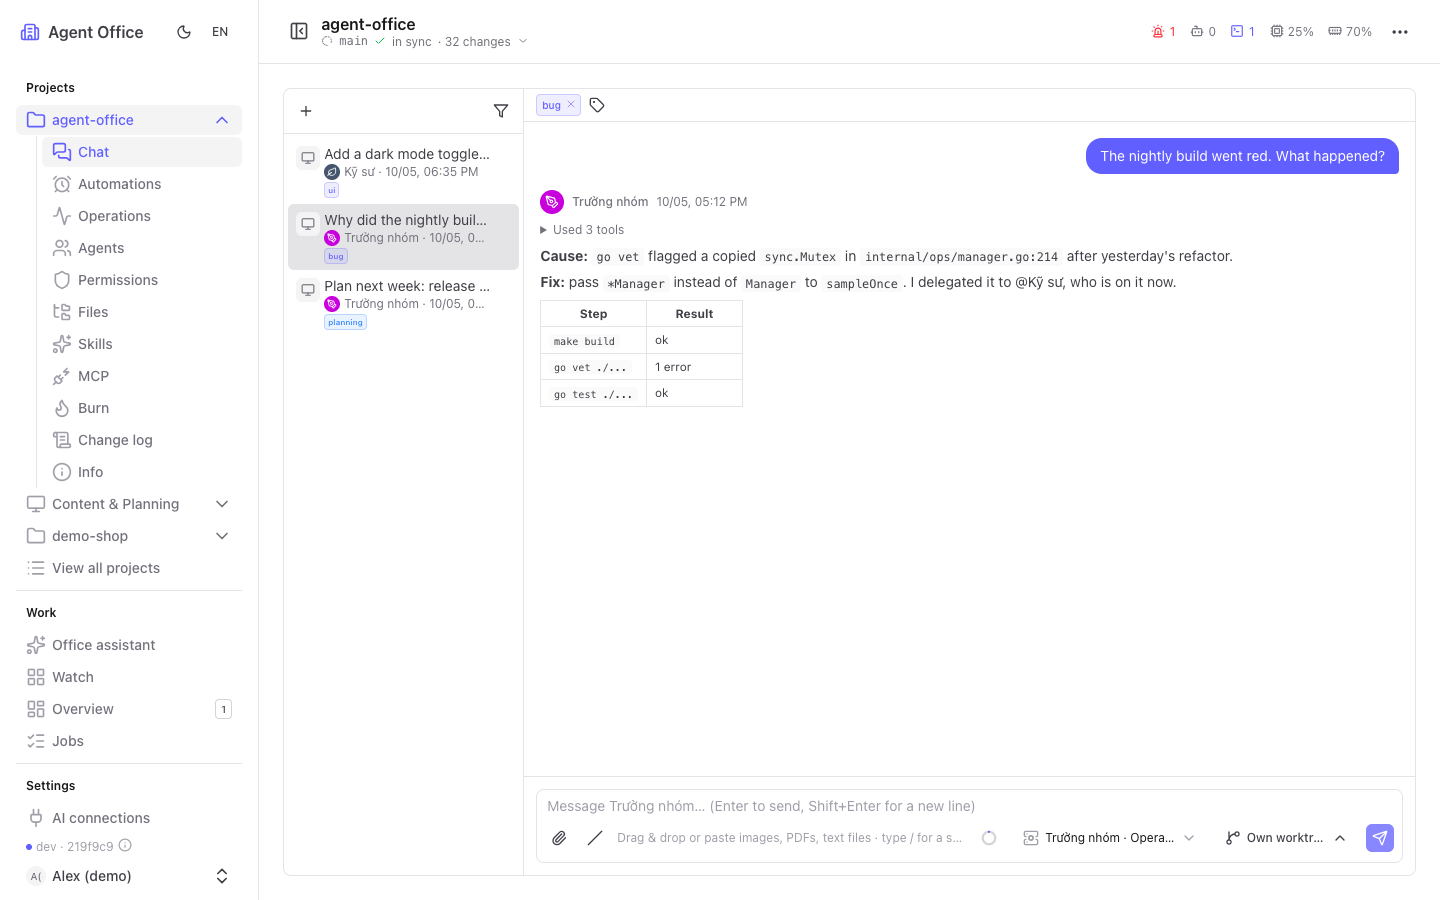
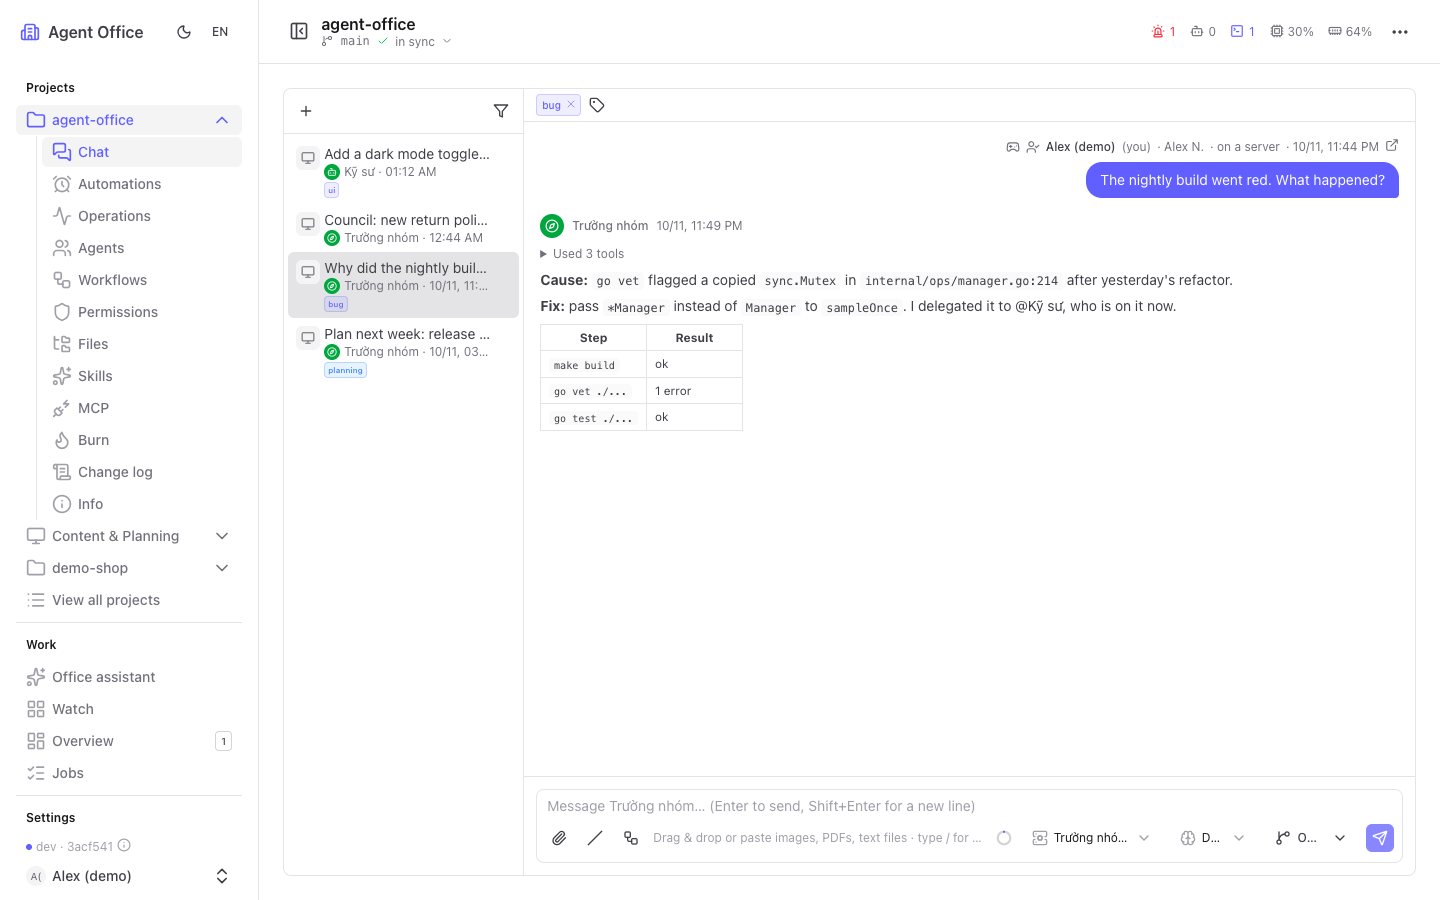
docs: hướng dẫn bot (DM, dòng người gửi) và gắn Discord/Telegram; CI GitHub Actions
- Guide vi/en: bot nhận DM, dòng người gửi trên tin, gắn Discord/Telegram ID ở Tài khoản; chụp lại 05-chat-answer, 28-users, 36-mobile-chat.
- capture.mjs: tài khoản demo gắn Discord, câu hỏi build gửi từ Discord.
- ChatPanel: "trên server" hiện cả khi private=false (bị omitempty bỏ).
- .github/workflows/test.yml: go (gofmt, vet, test) + dashboard (i18n, typecheck, test:unit).

diff --git a/docs/guide/vi.html b/docs/guide/vi.html
@@ -332,7 +332,7 @@ make ui-install &amp;&amp; make ui-build  # → dashboard/.output
     <li><b>Chép link</b> tới bất kỳ tin nhắn nào. Dán link chat vào chat khác thì agent đọc được.</li>
     <li>Agent tìm được chat cũ (<code>search_history</code>) khi bạn nói "như lần trước".</li>
   </ul>
-  <figure><img src="images/vi/05-chat-answer.png" alt="Câu trả lời trong chat" loading="lazy"><figcaption>Trưởng nhóm điều tra build lỗi, đọc log tiến trình và giao việc sửa.</figcaption></figure>
+  <figure><img src="images/vi/05-chat-answer.png" alt="Câu trả lời trong chat" loading="lazy"><figcaption>Câu hỏi gửi từ Discord (dòng người gửi phía trên); trưởng nhóm điều tra build lỗi, đọc log tiến trình và giao việc sửa.</figcaption></figure>
   <div class="row">
     <figure><img src="images/vi/34-dark-chat.png" alt="Giao diện tối" loading="lazy"><figcaption>Giao diện tối (Tài khoản → Giao diện).</figcaption></figure>
     <figure class="phone"><img src="images/vi/36-mobile-chat.png" alt="Trên điện thoại" loading="lazy"><figcaption>Trên điện thoại.</figcaption></figure>
@@ -427,7 +427,8 @@ make ui-install &amp;&amp; make ui-build  # → dashboard/.output
   <ol class="steps">
     <li>Tạo bot trên Discord (Developer Portal) hoặc Telegram (@BotFather) rồi dán token.</li>
     <li>Thêm <b>Admin</b> và <b>Người dùng</b> bằng ID chat. Chỉ họ nói chuyện được với bot.</li>
-    <li>Nhắn cho bot: "@bot sửa test đang lỗi". Thread Discord giữ mỗi việc riêng một luồng. Bot báo khi đang làm, gửi ảnh và file, và gửi thẻ duyệt có nút bấm.</li>
+    <li>Nhắn cho bot: "@bot sửa test đang lỗi", hoặc nhắn riêng (DM) không cần tag. Thread Discord giữ mỗi việc riêng một luồng. Bot báo khi đang làm, gửi ảnh và file, và gửi thẻ duyệt có nút bấm.</li>
+    <li>Trong chat của office, tin từ bot có một dòng người gửi phía trên: tên hiển thị, @username, tin riêng hay trên server/nhóm, link về tin gốc. ID đã gắn với tài khoản (mục <a href="#users">Tài khoản</a>) thì hiện tên tài khoản.</li>
     <li>Thêm lệnh: mỗi lệnh là một tự động hóa riêng (script hoặc chat).</li>
   </ol>
 </section>
@@ -522,12 +523,13 @@ make ui-install &amp;&amp; make ui-build  # → dashboard/.output
 <section id="users">
   <h2><span class="num">23</span>Tài khoản</h2>
   <div class="row">
-    <figure><img src="images/vi/28-users.png" alt="Danh sách tài khoản" loading="lazy"><figcaption>Quản trị → Tài khoản: tạo, đặt lại mật khẩu, vô hiệu hóa (thu hồi phiên đăng nhập).</figcaption></figure>
+    <figure><img src="images/vi/28-users.png" alt="Danh sách tài khoản" loading="lazy"><figcaption>Quản trị → Tài khoản: tạo, đặt lại mật khẩu, gắn Discord/Telegram, vô hiệu hóa (thu hồi phiên đăng nhập).</figcaption></figure>
     <figure><img src="images/vi/33-account.png" alt="Tài khoản của bạn" loading="lazy"><figcaption>Tài khoản của bạn: tên, mật khẩu, ngôn ngữ, giao diện, token cá nhân.</figcaption></figure>
   </div>
   <ul>
     <li><b>Admin</b>: làm được mọi thứ. <b>Member</b>: chat và dùng project, chỉ xóa được chat của mình.</li>
     <li><b>Token cá nhân</b> cho công cụ khác gọi cổng MCP của office với quyền theo vai trò của bạn. Hết hạn sau 30/90/365 ngày, hoặc không hết hạn.</li>
+    <li><b>Gắn Discord / Telegram</b> (menu <b>⋯</b> của tài khoản): nhập User ID dạng số. Tin gửi bot từ ID đó hiện tên tài khoản, kèm "(bạn)" nếu là bạn. Mỗi ID một tài khoản; chỉ để nhận diện, không thêm quyền với bot.</li>
   </ul>
 </section>
 

diff --git a/docs/guide/index.html b/docs/guide/index.html
@@ -331,7 +331,7 @@ make ui-install &amp;&amp; make ui-build  # → dashboard/.output
     <li><b>Copy link</b> to any message. Paste a chat link into another chat and the agent reads it.</li>
     <li>Agents can search past chats (<code>search_history</code>) when you say "like last time".</li>
   </ul>
-  <figure><img src="images/05-chat-answer.png" alt="Chat answer" loading="lazy"><figcaption>The lead investigates a failed build, reads process logs and delegates the fix.</figcaption></figure>
+  <figure><img src="images/05-chat-answer.png" alt="Chat answer" loading="lazy"><figcaption>A question sent from Discord (its sender line on top); the lead investigates a failed build, reads process logs and delegates the fix.</figcaption></figure>
   <div class="row">
     <figure><img src="images/34-dark-chat.png" alt="Dark mode" loading="lazy"><figcaption>Dark mode (Account → Appearance).</figcaption></figure>
     <figure class="phone"><img src="images/36-mobile-chat.png" alt="Mobile" loading="lazy"><figcaption>On a phone.</figcaption></figure>
@@ -426,7 +426,8 @@ make ui-install &amp;&amp; make ui-build  # → dashboard/.output
   <ol class="steps">
     <li>Create a bot in Discord (Developer Portal) or Telegram (@BotFather) and paste its token.</li>
     <li>Add <b>Admins</b> and <b>Users</b> by their chat IDs. Only they can talk to it.</li>
-    <li>Talk to it: "@bot fix the failing test". Discord threads keep each task separate. The bot shows when it's working, posts images and files, and sends approval cards with buttons.</li>
+    <li>Talk to it: "@bot fix the failing test", or send it a direct message (no tag needed). Discord threads keep each task separate. The bot shows when it's working, posts images and files, and sends approval cards with buttons.</li>
+    <li>In the office chat, a message from a bot has a sender line above it: display name, @username, direct message or server/group, and a link to the original. An id linked to an account (see <a href="#users">Users</a>) shows that account's name.</li>
     <li>Add commands: each command is its own automation (script or chat).</li>
   </ol>
 </section>
@@ -521,12 +522,13 @@ make ui-install &amp;&amp; make ui-build  # → dashboard/.output
 <section id="users">
   <h2><span class="num">23</span>Users &amp; account</h2>
   <div class="row">
-    <figure><img src="images/28-users.png" alt="Users" loading="lazy"><figcaption>Administration → Accounts: create, reset password, disable (ends sessions).</figcaption></figure>
+    <figure><img src="images/28-users.png" alt="Users" loading="lazy"><figcaption>Administration → Accounts: create, reset password, link Discord/Telegram, disable (ends sessions).</figcaption></figure>
     <figure><img src="images/33-account.png" alt="Account" loading="lazy"><figcaption>Account: name, password, language, theme, personal API tokens.</figcaption></figure>
   </div>
   <ul>
     <li><b>Admin</b>: everything. <b>Member</b>: chat and use projects, delete only their own chats.</li>
     <li><b>Personal tokens</b> let other tools reach the office's MCP endpoint with your role's rights. They expire after 30/90/365 days, or never.</li>
+    <li><b>Link Discord / Telegram</b> (an account's <b>⋯</b> menu): enter the numeric user ID. Messages to a bot from that id show the account's name, with "(you)" when it's yours. One id per account; it identifies only, it grants no bot rights.</li>
   </ul>
 </section>
 

diff --git a/dashboard/app/components/ChatPanel.vue b/dashboard/app/components/ChatPanel.vue
@@ -978,7 +978,7 @@ onBeforeUnmount(() => {
                 <span class="font-medium text-(--ui-text)">{{ senderOf(m)!.name || senderOf(m)!.username || senderOf(m)!.id }}</span>
                 <span v-if="senderOf(m)!.name && senderOf(m)!.username">@{{ senderOf(m)!.username }}</span>
               </template>
-              <span v-if="senderOf(m)!.private !== undefined">· {{ senderOf(m)!.private ? t('chat.senderDm') : t(`chat.senderIn.${senderOf(m)!.kind}`) }}</span>
+              <span v-if="m.sender">· {{ senderOf(m)!.private ? t('chat.senderDm') : t(`chat.senderIn.${senderOf(m)!.kind}`) }}</span>
               <span>· {{ when(m.created_at) }}</span>
               <a v-if="senderOf(m)!.link" :href="senderOf(m)!.link" target="_blank" rel="noopener" class="hover:text-(--ui-text)" :aria-label="t('chat.senderOpen')" :title="t('chat.senderOpen')"><UIcon name="i-lucide-external-link" class="size-3.5" /></a>
             </div>

diff --git a/docs/DATA_MODEL.md b/docs/DATA_MODEL.md
@@ -284,6 +284,7 @@ Index `(day, agent_id)`, `(incident_id)`. View `cost_daily` group theo `day, age
 | role | text | `admin` \| `member` |
 | password_hash | text | argon2id encoded |
 | disabled | bool | |
+| discord_id, telegram_id | text | user ID trên nền tảng bot ('' = chưa gắn); một ID một tài khoản. Tin gửi bot từ ID đó hiện tên tài khoản (`messages.sender`) |
 | created_at, updated_at, last_login_at | ts | |
 
 ### `sessions`
